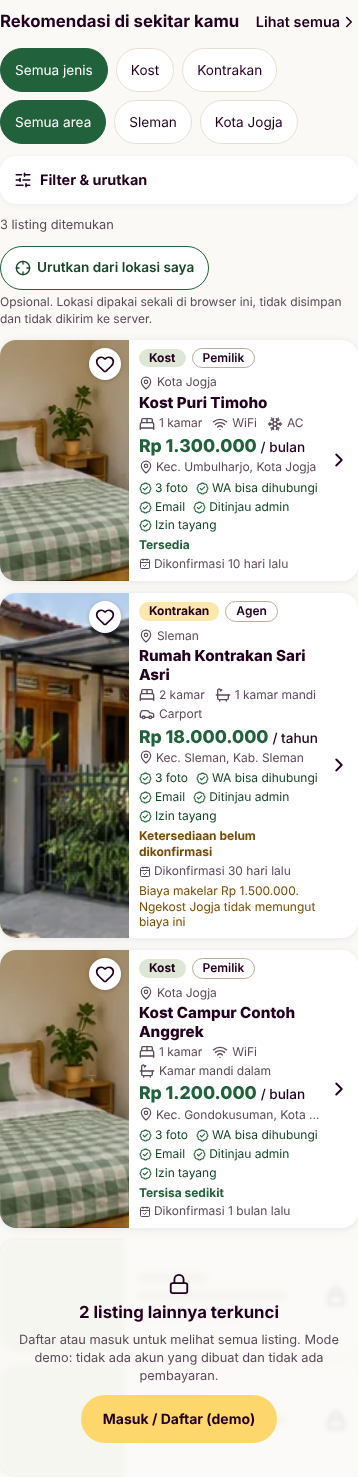
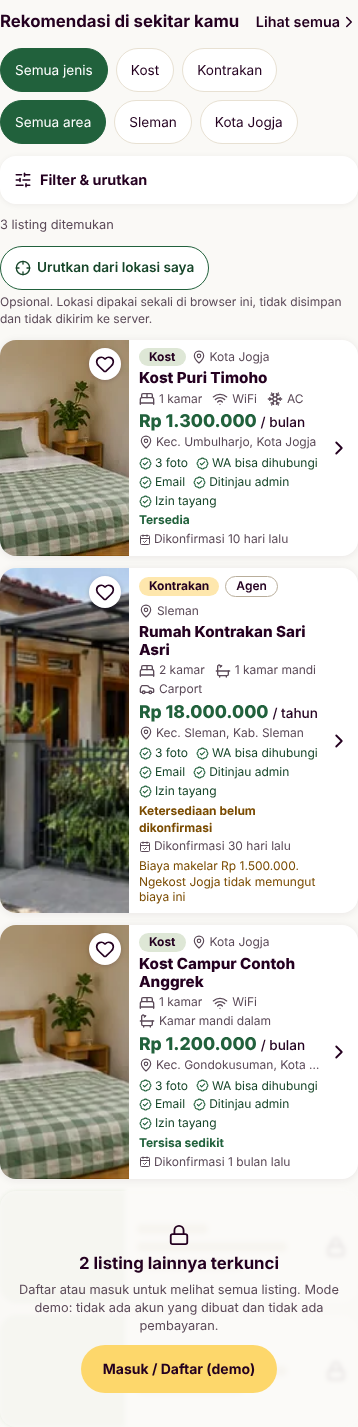
Fix QA findings F1-F6 and show role/fee only when there is a fee
F1 labels the sample gallery honestly, F2 explains the no-JavaScript
consent state, F3 shows the report confirmation only for a report the
visitor actually filed, F4 fixes heading order on the locked page, F5 adds
a 404 page with a main landmark, and F6 renders the location control only
when JavaScript can run it. Per the Product Owner, the broker role and fee
note appear only for an agen listing with a disclosed or unstated fee;
owner and no-fee listings show neither.

Claude-Session: https://claude.ai/code/session_01WNCAdRPi2MUEaUFsXaQbGS

diff --git a/app/listing/[id]/page.tsx b/app/listing/[id]/page.tsx
@@ -35,7 +35,7 @@ export default async function ListingPage({ params }: { params: Promise<{ id: st
             <ArrowLeft size={18} aria-hidden="true" /> Kembali
           </Link>
           <h1>Listing ini terkunci</h1>
-          <ListingGate lockedCount={1} />
+          <ListingGate lockedCount={1} headingLevel={2} />
         </main>
       </>
     );
@@ -56,7 +56,7 @@ export default async function ListingPage({ params }: { params: Promise<{ id: st
         <h1>{listing.title}</h1>
         <p className="card__meta">
           <span className={`tag tag--${listing.type}`}>{listing.type === 'kost' ? 'Kost' : 'Kontrakan'}</span>
-          <span className={`tag tag--role tag--${listing.role}`}>{ROLE_LABEL[listing.role]}</span>
+          {fee ? <span className={`tag tag--role tag--${listing.role}`}>{ROLE_LABEL[listing.role]}</span> : null}
           <span className="card__area">
             <MapPin size={14} aria-hidden="true" /> {areaLabel(listing.area)} · {listing.neighborhood_label}
           </span>
@@ -78,6 +78,9 @@ export default async function ListingPage({ params }: { params: Promise<{ id: st
             );
           })}
         </div>
+        <p className="gallery-note" data-testid="gallery-note">
+          Foto contoh: ketiga foto ini potongan dari gambar contoh yang sama karena ini data dummy. Listing asli wajib memiliki tiga foto yang berbeda.
+        </p>
         <p className="card__price">
           <span className="card__amount">{formatRupiah(listing.price_monthly)}</span> <span className="card__period">/ {listing.price_period}</span>
         </p>
@@ -92,9 +95,11 @@ export default async function ListingPage({ params }: { params: Promise<{ id: st
             {listing.last_confirmed_at ? `Terakhir dikonfirmasi ${formatDateId(listing.last_confirmed_at)} (${confirmed_label.replace('Dikonfirmasi ', '')})` : 'Belum dikonfirmasi'}
           </p>
           {listing.expires_at ? <p>Tayang sampai {formatDateId(listing.expires_at)} kecuali dikonfirmasi ulang.</p> : null}
-          <p className={`card__fee card__fee--${fee.tone}`} data-testid="fee-note">
-            {ROLE_LABEL[listing.role]}: {fee.text}
-          </p>
+          {fee ? (
+            <p className={`card__fee card__fee--${fee.tone}`} data-testid="fee-note">
+              {ROLE_LABEL[listing.role]}: {fee.text}
+            </p>
+          ) : null}
         </section>
 
         <TrustPanel items={evidence} />
@@ -114,9 +119,7 @@ export default async function ListingPage({ params }: { params: Promise<{ id: st
         )}
         <h2>Kondisi</h2>
         <p>{listing.condition_details}</p>
-        <p>
-          Dipasang oleh {listing.role === 'owner' ? 'pemilik' : 'agen'} · Kontak: {listing.contact_name}
-        </p>
+        <p>Kontak: {listing.contact_name}</p>
 
         <ApproxMap point={{ latitude: listing.approx_latitude, longitude: listing.approx_longitude }} precisionM={listing.approx_precision_m} label={listing.neighborhood_label} />
 

diff --git a/components/listings/ListingResults.tsx b/components/listings/ListingResults.tsx
@@ -1,6 +1,6 @@
 'use client';
 
-import { useState } from 'react';
+import { useEffect, useState } from 'react';
 import { Crosshair, X } from 'lucide-react';
 import { ListingCard } from '@/components/listings/ListingCard';
 import { distanceMeters, type LatLng } from '@/lib/location/geo';
@@ -26,6 +26,9 @@ function formatKm(meters: number): string {
 export function ListingResults({ cards }: { cards: ListingCardData[] }) {
   const [status, setStatus] = useState<Status>('idle');
   const [here, setHere] = useState<LatLng | null>(null);
+  // The control is rendered only after hydration, so without JavaScript there is no button that does nothing.
+  const [ready, setReady] = useState(false);
+  useEffect(() => setReady(true), []);
 
   function locate() {
     if (!navigator.geolocation?.getCurrentPosition) return setStatus('unavailable');
@@ -50,6 +53,7 @@ export function ListingResults({ cards }: { cards: ListingCardData[] }) {
 
   return (
     <>
+      {ready ? (
       <div className="nearby">
         {here ? (
           <button type="button" className="nearby__btn" onClick={clear}>
@@ -65,6 +69,7 @@ export function ListingResults({ cards }: { cards: ListingCardData[] }) {
           {status === 'ok' ? 'Diurutkan dari yang terdekat (perkiraan).' : status !== 'idle' ? STATUS_TEXT[status] : ''}
         </p>
       </div>
+      ) : null}
       <ul className="cards">
         {rows.map(({ card, meters }, i) => (
           <ListingCard key={card.id} listing={card} priority={i === 0} distanceLabel={meters === null ? undefined : `± ${formatKm(meters)} dari lokasimu`} />

diff --git a/components/listings/ListingCard.tsx b/components/listings/ListingCard.tsx
@@ -9,7 +9,8 @@ import { areaLabel, type ListingCardData } from '@/lib/search/listings';
 
 export function ListingCard({ listing, priority = false, distanceLabel }: { listing: ListingCardData; priority?: boolean; distanceLabel?: string }) {
   const photo = listingPhoto(listing.type, 1);
-  const fee = listing.role === 'broker' ? brokerFeeNote(listing.role, listing.broker_fee_status, listing.broker_fee_amount) : null;
+  // The role badge and fee line only appear together, and only when there is a fee (or an unknown fee) to flag.
+  const fee = brokerFeeNote(listing.role, listing.broker_fee_status, listing.broker_fee_amount);
   const availabilityClass = listing.availability === 'available' || listing.availability === 'limited' ? 'ok' : 'muted';
   return (
     <li className="card" data-testid="listing-card" data-listing-id={listing.id}>
@@ -29,7 +30,7 @@ export function ListingCard({ listing, priority = false, distanceLabel }: { list
         <div className="card__body">
           <p className="card__meta">
             <span className={`tag tag--${listing.type}`}>{listing.type === 'kost' ? 'Kost' : 'Kontrakan'}</span>
-            <span className={`tag tag--role tag--${listing.role}`}>{ROLE_LABEL[listing.role]}</span>
+            {fee ? <span className={`tag tag--role tag--${listing.role}`}>{ROLE_LABEL[listing.role]}</span> : null}
             <span className="card__area">
               <MapPin size={14} aria-hidden="true" /> {areaLabel(listing.area)}
             </span>

diff --git a/tests/trust.test.ts b/tests/trust.test.ts
@@ -139,14 +139,15 @@ describe('freshness, availability, role and broker fee', () => {
     expect(ROLE_LABEL).toEqual({ owner: 'Pemilik', broker: 'Agen' });
   });
 
-  it('states broker fees plainly and says Ngekost does not collect them', () => {
-    expect(brokerFeeNote('owner', 'none', null).tone).toBe('ok');
-    expect(brokerFeeNote('broker', 'none', null).text).toBe('Tanpa biaya makelar');
+  it('shows a broker-fee note only when there is a fee or the fee is unknown; "no fee" says nothing', () => {
+    expect(brokerFeeNote('owner', 'none', null)).toBeNull();
+    expect(brokerFeeNote('owner', 'disclosed', 1_000_000)).toBeNull(); // owners never carry a broker fee note
+    expect(brokerFeeNote('broker', 'none', null)).toBeNull();
     const disclosed = brokerFeeNote('broker', 'disclosed', 1500000);
-    expect(disclosed.text).toContain('1.500.000');
-    expect(disclosed.text).toMatch(/tidak memungut/);
-    expect(brokerFeeNote('broker', 'undisclosed', null).text).toMatch(/belum dicantumkan/);
-    expect(brokerFeeNote('broker', 'disclosed', null).text).toMatch(/belum dicantumkan/); // amount missing never reads as free
+    expect(disclosed?.text).toContain('1.500.000');
+    expect(disclosed?.text).toMatch(/tidak memungut/);
+    expect(brokerFeeNote('broker', 'undisclosed', null)?.text).toMatch(/belum dicantumkan/);
+    expect(brokerFeeNote('broker', 'disclosed', null)?.text).toMatch(/belum dicantumkan/); // amount missing never reads as free
   });
 });
 

diff --git a/lib/format.ts b/lib/format.ts
@@ -37,10 +37,13 @@ export const ROLE_LABEL: Record<SubmitterType, string> = { owner: 'Pemilik', bro
 
 export type FeeNote = { text: string; tone: 'ok' | 'warn' };
 
-/** Broker-fee transparency. Ngekost Jogja never collects the fee; this only states what the submitter declared. */
-export function brokerFeeNote(role: SubmitterType, status: BrokerFeeStatus, amount: number | null): FeeNote {
-  if (role === 'owner') return { text: 'Pemilik langsung, tanpa biaya makelar', tone: 'ok' };
-  if (status === 'none') return { text: 'Tanpa biaya makelar', tone: 'ok' };
+/**
+ * Broker-fee transparency. Only a fee (or an unknown fee) is worth a visitor's attention, so "no fee" and owner
+ * listings return null and nothing is shown, not even the role. Ngekost Jogja never collects the fee; the note only
+ * states what the submitter declared.
+ */
+export function brokerFeeNote(role: SubmitterType, status: BrokerFeeStatus, amount: number | null): FeeNote | null {
+  if (role === 'owner' || status === 'none') return null;
   if (status === 'disclosed' && amount !== null) return { text: `Biaya makelar ${formatRupiah(amount)}. Ngekost Jogja tidak memungut biaya ini`, tone: 'warn' };
   return { text: 'Biaya makelar belum dicantumkan. Tanyakan sebelum survei', tone: 'warn' };
 }

diff --git a/components/trust/ListingGate.tsx b/components/trust/ListingGate.tsx
@@ -3,7 +3,8 @@ import { Lock } from 'lucide-react';
 import { TrackMount } from '@/components/trust/TrackMount';
 
 /** Locked teaser for listings withheld from anonymous visitors. It receives only a count, never listing data. */
-export function ListingGate({ lockedCount }: { lockedCount: number }) {
+export function ListingGate({ lockedCount, headingLevel = 3 }: { lockedCount: number; headingLevel?: 2 | 3 }) {
+  const Heading = headingLevel === 2 ? 'h2' : 'h3';
   return (
     <section className="gate" data-testid="listing-gate" aria-labelledby="gate-title">
       <TrackMount event="gate_shown" />
@@ -22,7 +23,7 @@ export function ListingGate({ lockedCount }: { lockedCount: number }) {
       </ul>
       <div className="gate__cta">
         <Lock size={22} aria-hidden="true" />
-        <h3 id="gate-title">{lockedCount} listing lainnya terkunci</h3>
+        <Heading id="gate-title">{lockedCount} listing lainnya terkunci</Heading>
         <p>Daftar atau masuk untuk melihat semua listing. Mode demo: tidak ada akun yang dibuat dan tidak ada pembayaran.</p>
         <Link href="/masuk" className="button">
           Masuk / Daftar (demo)

diff --git a/app/listing/[id]/laporkan/page.tsx b/app/listing/[id]/laporkan/page.tsx
@@ -22,7 +22,9 @@ export default async function ReportPage({ params, searchParams }: Props) {
   const sp = await searchParams;
   if (!isListingId(id)) notFound();
 
-  if (sp.status === 'ok') {
+  const reported = await getReportedIds();
+  // The confirmation is only for a report this visitor actually filed; a bare ?status=ok must not claim one.
+  if (sp.status === 'ok' && reported.includes(id)) {
     // The confirmation reads no listing data, so it is safe even after the listing disappeared from results.
     return (
       <>
@@ -44,7 +46,6 @@ export default async function ReportPage({ params, searchParams }: Props) {
     );
   }
 
-  const reported = await getReportedIds();
   const cards = listPreviewCards(new Date(), reported);
   const card = cards.find((c) => c.id === id);
   if (!card) notFound();

diff --git a/app/not-found.tsx b/app/not-found.tsx
@@ -1,0 +1,19 @@
+import Link from 'next/link';
+import { Header } from '@/components/site/Header';
+
+// Gives the default 404 a landmark, a heading, and a way home. Pages that call notFound() (hidden, expired, reported,
+// or unknown listings) render this with a 404 status.
+export default function NotFound() {
+  return (
+    <>
+      <Header />
+      <main className="detail">
+        <h1>Halaman tidak ditemukan</h1>
+        <p>Halaman atau listing yang kamu cari tidak tersedia. Listing bisa saja sudah tayang habis, disembunyikan, atau dilaporkan.</p>
+        <Link href="/" className="button">
+          Kembali ke beranda
+        </Link>
+      </main>
+    </>
+  );
+}

diff --git a/app/actions.ts b/app/actions.ts
@@ -48,8 +48,8 @@ export async function submitReport(formData: FormData): Promise<void> {
   if (!isListingId(id)) redirect('/');
   const result = validateReport(formData);
   if (!result.ok) {
-    // A filled honeypot gets a normal-looking confirmation and no effect, so bots learn nothing.
-    redirect(`/listing/${id}/laporkan?${result.code === 'spam' ? 'status=ok' : `error=${result.code}`}`);
+    // A filled honeypot is dropped without any effect or success message.
+    redirect(`/listing/${id}/laporkan${result.code === 'spam' ? '' : `?error=${result.code}`}`);
   }
   const reported = await getReportedIds();
   const visible = listPreviewCards(new Date(), reported);

diff --git a/components/trust/ConsentModal.tsx b/components/trust/ConsentModal.tsx
@@ -96,6 +96,9 @@ export function ConsentModal() {
             <input ref={checkboxRef} type="checkbox" name="agree" checked={agreed} onChange={(e) => setAgreed(e.target.checked)} />
             <span>Saya paham dan akan verifikasi langsung sebelum membayar.</span>
           </label>
+          <noscript>
+            <p className="modal__nojs">Aktifkan JavaScript di browser untuk melanjutkan: kotak persetujuan ini membutuhkannya.</p>
+          </noscript>
           <button type="submit" className="button modal__submit" disabled={!agreed}>
             Saya paham, lanjut melihat listing
           </button>

diff --git a/app/globals.css b/app/globals.css
@@ -268,3 +268,6 @@ img { max-width: 100%; height: auto; display: block; }
 .form-error { background: var(--danger-bg); color: #7a1410; border-radius: 12px; padding: 10px 14px; font-weight: 600; }
 
 .modal__list { margin: 10px 0 0; padding-left: 22px; font-size: 0.95rem; color: #4a2f45; display: grid; gap: 6px; font-weight: 600; }
+
+.gallery-note { margin: 8px 0 0; font-size: 0.75rem; color: var(--muted); }
+.modal__nojs { margin: 8px 0; padding: 10px 12px; border-radius: 10px; background: #fff; color: #7a1410; font-size: 0.85rem; font-weight: 600; }

diff --git a/design-qa.md b/design-qa.md
@@ -1,9 +1,9 @@
 # Design QA — Option 3, iteration 2, and Trust and Discovery
 
-Generated by `npm run qa:e2e` (tests/e2e/run.mjs) on 2026-10-25T11:56:43.098Z.
+Generated by `npm run qa:e2e` (tests/e2e/run.mjs) on 2026-10-25T12:10:05.562Z.
 Run by the implementing agent. **This is not independent QA**; the independent run is listed below as BLOCKED until it happens.
 
-**Result: PASS — 261 PASS, 0 FAIL, 3 BLOCKED (of 264).**
+**Result: PASS — 278 PASS, 0 FAIL, 3 BLOCKED (of 281).**
 Open (FAIL or BLOCKED) by severity: P0 0, P1 1, P2 2, P3 0.
 
 Severity: P0 security/data exposure, consent bypass, or app unavailable; P1 core journey broken, content clipped, or locked listing exposed; P2 meaningful visual/accessibility/coverage issue; P3 polish.
@@ -45,12 +45,12 @@ Screenshot evidence is in `docs/qa-screenshots/`.
 | PASS | P0 | Anonymous: direct URL /listing/lst-10 does not bypass the gate |  |
 | PASS | P1 | Anonymous: the third listing detail is still viewable |  |
 | PASS | P0 | Anonymous with JavaScript disabled still sees only 3 listings (limit is server-side) |  |
-| PASS | P2 | Screenshot captured: 06-locked-gate-390.png | 20320 bytes |
-| PASS | P2 | Screenshot captured: 07-locked-detail-390.png | 36059 bytes |
+| PASS | P2 | Screenshot captured: 06-locked-gate-390.png | 20357 bytes |
+| PASS | P2 | Screenshot captured: 07-locked-detail-390.png | 36318 bytes |
 | PASS | P0 | axe WCAG A/AA: gated homepage |  |
 | PASS | P1 | Sign-in page is labelled demo and collects no personal data |  |
 | PASS | P0 | Unlocked: all 5 listings are visible and the gate is gone | 5 cards |
-| PASS | P2 | Screenshot captured: 08-unlocked-listings-390.png | 444987 bytes |
+| PASS | P2 | Screenshot captured: 08-unlocked-listings-390.png | 430148 bytes |
 | PASS | P0 | Unlocked: the fifth listing detail opens |  |
 | PASS | P0 | Unlocked: filters include the previously locked listings |  |
 | PASS | P0 | axe WCAG A/AA: unlocked homepage |  |
@@ -82,8 +82,8 @@ Screenshot evidence is in `docs/qa-screenshots/`.
 | PASS | P3 | Favorite heart toggles pressed state |  |
 | PASS | P3 | Favorite persists in this browser only (localStorage) |  |
 | PASS | P2 | Menu opens and shows navigation |  |
-| PASS | P2 | Screenshot captured: 04-listing-section-390.png | 293730 bytes |
-| PASS | P2 | Screenshot captured: 05-detail-390.png | 264553 bytes |
+| PASS | P2 | Screenshot captured: 04-listing-section-390.png | 283971 bytes |
+| PASS | P2 | Screenshot captured: 05-detail-390.png | 269433 bytes |
 | PASS | P1 | Detail page shows title, price and 3 photos |  |
 | PASS | P1 | Detail shows the anti-scam warning before the WhatsApp action |  |
 | PASS | P0 | Detail shows the survey and WhatsApp CTAs (consent granted) |  |
@@ -103,12 +103,12 @@ Screenshot evidence is in `docs/qa-screenshots/`.
 | PASS | P2 | axe WCAG A/AA: /listing/lst-9 |  |
 | PASS | P2 | axe WCAG A/AA: /masuk |  |
 | PASS | P1 | Evidence row: card shows exactly the five checks the record supports, in order | 3 foto / WA bisa dihubungi / Email / Ditinjau admin / Izin tayang |
-| PASS | P1 | Role badge: Pemilik on owner card, Agen on broker card |  |
+| PASS | P1 | Role and fee are shown only when there is a fee: owner cards show neither; the agen card with a fee shows "Agen" and the fee |  |
 | PASS | P1 | Freshness and availability row on every card | Tersedia Dikonfirmasi 10 hari lalu / Ketersediaan belum dikonfirmasi Dikonfirmasi 30 hari lalu / Tersisa sedikit Dikonfirmasi 1 bulan lalu |
 | PASS | P1 | Availability "unknown" is not styled or worded as available |  |
 | PASS | P1 | Broker-fee transparency: agen card states the fee and that Ngekost does not collect it; owner card has no fee line | Biaya makelar Rp 1.500.000. Ngekost Jogja tidak memungut biaya ini |
 | PASS | P0 | Cards expose a neighborhood label, never the exact address or exact coordinates |  |
-| PASS | P2 | Screenshot captured: 10-cards-evidence-390.png | 242516 bytes |
+| PASS | P2 | Screenshot captured: 10-cards-evidence-390.png | 233179 bytes |
 | PASS | P2 | Touch targets on the filtered homepage (filter panel, location button, chips) are ~44px |  |
 | PASS | P1 | Card address: shows kecamatan and region only | {"lst-1":"Kec. Umbulharjo, Kota Jogja","lst-2":"Kec. Sleman, Kab. Sleman","lst-3":"Kec. Gondokusuman, Kota Jogja"} |
 | PASS | P2 | Card address: the full neighborhood label stays available as a tooltip and in the page text for assistive tech |  |
@@ -117,17 +117,17 @@ Screenshot evidence is in `docs/qa-screenshots/`.
 | PASS | P1 | Card address (stress): the 160-character address becomes "Kec. Depok, Kab. Sleman" on one line | {"text":"Kec. Depok, Kab. Sleman","lines":1,"clipped":false,"full":"Perumahan Contoh Asri Blok C, RT 04 RW 09, Dusun Contoh Kidul, Kelurahan Contoh Lor, Kecamat |
 | PASS | P1 | Card address (stress): an unbroken 100-character string is cut with an ellipsis on one line, not wrapped |  |
 | PASS | P1 | Card address (stress): every stress card keeps its address to one line | 1,1,1,1,1,1,1,1,1,1 |
-| PASS | P2 | Screenshot captured: 16-stress-cards-address-390.png | 763572 bytes |
+| PASS | P2 | Screenshot captured: 16-stress-cards-address-390.png | 745250 bytes |
 | PASS | P1 | Detail: availability, last-confirmed date, and expiry are shown (unknown availability is not "Tersedia") | Ketersediaan belum dikonfirmasi Terakhir dikonfirmasi 25 Sep 2026 (30 hari lalu) Tayang sampai 25 Nov 2026 kecuali dikonfirmasi ulang. Agen: Biaya makelar Rp 1.500.000. Ngekost Jogja tidak memungut biaya ini |
 | PASS | P1 | Detail: broker-fee note names the role and the amount |  |
 | PASS | P1 | Detail: trust panel lists 5 checks as ok and carries the non-guarantee disclaimer |  |
-| PASS | P2 | Screenshot captured: 11-detail-trust-390.png | 567873 bytes |
+| PASS | P2 | Screenshot captured: 11-detail-trust-390.png | 574786 bytes |
 | PASS | P1 | Map: approximate-area preview renders without any request to a map provider |  |
 | PASS | P0 | Map: the shown point is 300–500 m from the real location and is not the real location | 386 m |
 | PASS | P1 | Map: "Buka di OpenStreetMap" and "Buka di Google Maps" open the same approximate point in a new tab safely |  |
 | PASS | P0 | Map: no link, attribute, or script payload on the page carries the exact coordinates or private address |  |
 | PASS | P1 | Map: tapping "Tampilkan peta" loads an OpenStreetMap embed centred on the approximate point only | https://www.openstreetmap.org/export/embed.html?bbox=110.3695%2C-7.7714%2C110.3815%2C-7.7594&layer=mapnik&marker=-7.7654,110.3755 |
-| PASS | P2 | Screenshot captured: 12-detail-map-390.png | 27775 bytes |
+| PASS | P2 | Screenshot captured: 12-detail-map-390.png | 27756 bytes |
 | PASS | P2 | Asset boundary: the map frame is visually separated from the page (min edge colour distance >= 18) | {"top":19,"bottom":19,"left":19,"right":19} |
 | PASS | P2 | Map: hiding the map removes the frame again |  |
 | PASS | P0 | Survey template: "Jadwalkan survei" opens WhatsApp with a prefilled visit request (title, contact, neighborhood) and no payment | https://wa.me/6280000000102?text=Halo%20Kontak%20Contoh%202% |
@@ -139,7 +139,7 @@ Screenshot evidence is in `docs/qa-screenshots/`.
 | PASS | P1 | Detail: a report link is available |  |
 | PASS | P2 | Touch targets on the detail page are ~44px |  |
 | PASS | P2 | axe WCAG A/AA: detail page with map open state and guidance expanded |  |
-| PASS | P2 | Detail (owner): fee note says owner direct, no broker fee |  |
+| PASS | P1 | Detail (owner): no role badge, no broker-fee note, and no "tanpa biaya makelar" text anywhere |  |
 | PASS | P0 | Privacy: raw response for /listing/lst-1 contains no exact coordinates, private address, owner id, or source |  |
 | PASS | P0 | Privacy: raw response for /listing/lst-2 contains no exact coordinates, private address, owner id, or source |  |
 | PASS | P0 | Privacy: raw response for /listing/lst-3 contains no exact coordinates, private address, owner id, or source |  |
@@ -156,7 +156,8 @@ Screenshot evidence is in `docs/qa-screenshots/`.
 | PASS | P1 | Report negative: missing reason is rejected server-side with a clear message and nothing is hidden |  |
 | PASS | P1 | Report negative: the listing is still visible after a rejected report |  |
 | PASS | P2 | Report negative: 501-character detail is rejected server-side |  |
-| PASS | P2 | Report negative: a filled honeypot looks successful but hides nothing |  |
+| PASS | P2 | Report negative: a filled honeypot hides nothing and claims no success |  |
+| PASS | P2 | F3: ?status=ok for a listing this visitor never reported shows no confirmation and no "disembunyikan" claim |  |
 | PASS | P0 | Report negative: locked, unknown, and malformed listing ids are bounced without effect |  |
 | PASS | P1 | Report happy path: confirmation says the listing is hidden and is honest that the demo sends nothing |  |
 | PASS | P1 | Report happy path: the reported listing leaves the results immediately; the 3-of-5 rule re-applies to the remaining four | lst-2,lst-3,lst-9 |
@@ -195,7 +196,7 @@ Screenshot evidence is in `docs/qa-screenshots/`.
 | PASS | P0 | Location denied: a clear message, and browsing plus manual area search still work |  |
 | PASS | P1 | Location unsupported: a clear message and the list is unaffected |  |
 | PASS | P1 | Modal v2: exactly the three approved safety actions | Survei langsung ke lokasi. / Jangan transfer sebelum melihat langsung. / Hubungi hanya lewat kontak yang tertera di Ngekost Jogja. |
-| PASS | P2 | Modal v2 is concise: at most 55 visible words before the guide is expanded | 34 words |
+| PASS | P2 | Modal v2 is concise: at most 55 visible words before the guide is expanded | 44 words |
 | PASS | P1 | Modal v2: the checkbox label is explicit and unchecked |  |
 | PASS | P0 | Consent versioning: a consent given to the old wording (v1) does not bypass the new modal |  |
 | PASS | P0 | Consent versioning: old consent does not unlock direct listing URLs either |  |
@@ -204,15 +205,31 @@ Screenshot evidence is in `docs/qa-screenshots/`.
 | PASS | P2 | Events: leaving the modal without consenting records consent_abandoned (server log) | consent_shown,consent_abandoned |
 | PASS | P1 | Events negative: with Do Not Track on, no event is sent | [] |
 | PASS | P2 | Events: the full funnel is logged server-side in order (shown, accepted, gate_shown, signup_started, signup_completed) | consent_shown,consent_accepted,gate_shown,signup_started,signup_completed |
-| PASS | P1 | Events: consent events carry only a viewport bucket; no ids, cookies, or listing data are logged | {"type":"nk_event","name":"consent_shown","viewport":"sm","at":"2026-10-25T11:56:30.109Z"} |
+| PASS | P1 | Events: consent events carry only a viewport bucket; no ids, cookies, or listing data are logged | {"type":"nk_event","name":"consent_shown","viewport":"sm","at":"2026-10-25T12:09:49.250Z"} |
 | PASS | P1 | Events API negative: unknown event 400, malformed JSON 400, oversized body 413, GET 405 |  |
+| PASS | P1 | Role/fee: an agen listing with no broker fee (lst-9) shows no role badge and no fee line |  |
+| PASS | P1 | Role/fee: an agen listing whose fee is not stated (lst-10) shows "Agen" and "belum dicantumkan" |  |
+| PASS | P1 | Role/fee: the detail of a zero-fee agen listing shows no role badge, no fee note, and no "Agen" label |  |
+| PASS | P1 | Role/fee: the detail of an agen listing with an unstated fee shows the role and the fee note |  |
+| PASS | P2 | F1: the detail gallery says the sample photos are crops of one example image and that real listings need three different photos |  |
+| PASS | P3 | F2: with JavaScript disabled the consent modal explains that JavaScript is needed (and the action stays disabled) |  |
+| PASS | P3 | F2: with JavaScript enabled the no-JavaScript notice is not shown |  |
+| PASS | P3 | F4/F5: heading order and landmarks are valid on / |  |
+| PASS | P3 | F4/F5: heading order and landmarks are valid on /listing/lst-1 |  |
+| PASS | P3 | F4/F5: heading order and landmarks are valid on /listing/lst-9 |  |
+| PASS | P3 | F4/F5: heading order and landmarks are valid on /listing/lst-999 |  |
+| PASS | P3 | F4/F5: heading order and landmarks are valid on /masuk |  |
+| PASS | P3 | F4/F5: heading order and landmarks are valid on /listing/lst-1/laporkan |  |
+| PASS | P3 | F5: the 404 page keeps status 404, has a main landmark, an h1, and a way home |  |
+| PASS | P3 | F6: with JavaScript disabled there is no inert "Urutkan dari lokasi saya" button |  |
+| PASS | P3 | F6: with JavaScript enabled the location control appears |  |
 | PASS | P1 | Card layout: no clipping or overflow at 320px (10 stress cards: long title/word/address, no facilities, no evidence, unknown/unavailable, broker fee, yearly Rp 1.25 miliar) |  |
 | PASS | P1 | Card layout: homepage cards have no clipping or overflow at 320px |  |
 | PASS | P1 | Edge case at 320px: price amounts are never split across lines |  |
-| PASS | P2 | Screenshot captured: 09-stress-cards-320.png | 675450 bytes |
+| PASS | P2 | Screenshot captured: 09-stress-cards-320.png | 649461 bytes |
 | PASS | P1 | Card layout: no clipping or overflow at 390px (10 stress cards: long title/word/address, no facilities, no evidence, unknown/unavailable, broker fee, yearly Rp 1.25 miliar) |  |
 | PASS | P1 | Card layout: homepage cards have no clipping or overflow at 390px |  |
-| PASS | P2 | Screenshot captured: 09-stress-cards-390.png | 777665 bytes |
+| PASS | P2 | Screenshot captured: 09-stress-cards-390.png | 759194 bytes |
 | PASS | P2 | Edge case: card with empty facilities renders no facilities list and no empty gap | 1,1,1,0,1,1,1,1,1,1 |
 | PASS | P1 | Edge case: monthly and yearly price periods render on cards | Rp 900.000 / bulan / Rp 900.000 / bulan / Rp 18.000.000 / tahun / Rp 900.000 / bulan / Rp 900.000 / bulan / Rp 1.250.000.000 / tahun / Rp 2.500.000 / bulan / Rp 900.000 / bulan / Rp 900.000 / bulan / Rp 900.000 / bulan |
 | PASS | P1 | Edge case: price amounts are never split across lines (no "Rp 1.250.000.0 / 00") |  |
@@ -296,6 +313,24 @@ Callers of the changed code: `toPublicListing` (every public read path: preview 
 | Favorite button persisted check raced hydration after the list became a client component | P3 | E2E failure | existing `Favorite persists...` now waits for the stored state | FAIL (test timing) | PASS | Test-only. |
 | Report-action 404 probes were attributed to the tracked page and polluted console-error tracking | P3 | E2E failure | 404 checks use untracked requests | FAIL (test setup) | PASS | Test-only. |
 Earlier tests were kept; none was removed or weakened.
+
+## Independent QA findings F1-F6 and the role/fee decision: reproduction log
+Method: expectations were written first and the suite was run before any fix. Result before the fix: 5 FAIL (role/fee rule on cards and detail for owner and zero-fee agen listings, F3) and the runner stopped on a timeout waiting for the F1 gallery note, so the F2 and F4-F6 checks had not run yet (the `brokerFeeNote` unit test also failed). After the fix: all of them PASS.
+
+| Finding | Severity | Regression tests kept | Before | After | Residual risk |
+| --- | --- | --- | --- | --- | --- |
+| F1 three photos are crops of one image | P2 | `F1: the detail gallery says the sample photos are crops...` | FAIL (no note; runner timeout) | PASS | Only labelled, not solved: real distinct photos are still needed. |
+| F2 consent unusable without JS | P3 | two `F2:` checks (notice shown without JS, absent with JS) | not reached | PASS | The action stays disabled by design, so such visitors still cannot proceed. |
+| F3 confirmation without a report | P3 | `F3: ?status=ok ... shows no confirmation`; honeypot check rewritten | FAIL | PASS | A visitor can still reload the confirmation of their own report (intended). |
+| F4 heading order | P3 | `F4/F5: heading order and landmarks are valid on` six pages (axe best-practice rules, which the WCAG-tag runs elsewhere do not include) | not reached | PASS | Only the listed pages. |
+| F5 404 landmark | P3 | the same axe rules on a 404 page plus a status/`h1`/link check | not reached | PASS | None known. |
+| F6 inert button without JS | P3 | two `F6:` checks (no button without JS, appears with JS) | not reached | PASS | A brief delay before the control appears; Lighthouse CLS stayed 0. |
+| F7 malformed URL 502 | - | none (platform behaviour, same on non-existent routes) | - | - | Not ours to fix. |
+| Role/fee rule (Product Owner) | P1 | four `Role/fee:` checks plus owner/detail checks and unit tests | FAIL | PASS | The role filter still exists (open question). |
+
+One test of mine produced a false positive during this work: the locked-page check searched for the word "laporkan", which now also appears in the generic 404 copy ("dilaporkan") that Next includes in every page payload. It was narrowed to the real report link and label; the locked listing's title, price, and contact data are still asserted absent.
+
+Lighthouse after these changes (homepage, consented, single localhost run): Performance 88, Accessibility 100, Best Practices 96; LCP 2.6 s, CLS 0, TBT 390 ms.
 
 ## Change request during visual review: one-line card address
 Product Owner asked that list-card addresses be limited to one line with an ellipsis and show the kecamatan and region. Tests were written first and failed (the one-line address element did not exist, so the E2E runner timed out on it; 12 unit cases failed because `compactLocation` was missing). After the change: 12 new unit cases and 8 new E2E checks pass (kecamatan text, one line with an ellipsis on the real and the stress cards, tooltip and screen-reader text keep the full label, the detail page keeps the full label, the 160-character address becomes "Kec. Depok, Kab. Sleman"). The card geometry check no longer treats the intentional ellipsis as overflow; every other overflow check is unchanged. Screenshot: `docs/qa-screenshots/16-stress-cards-address-390.png`.
